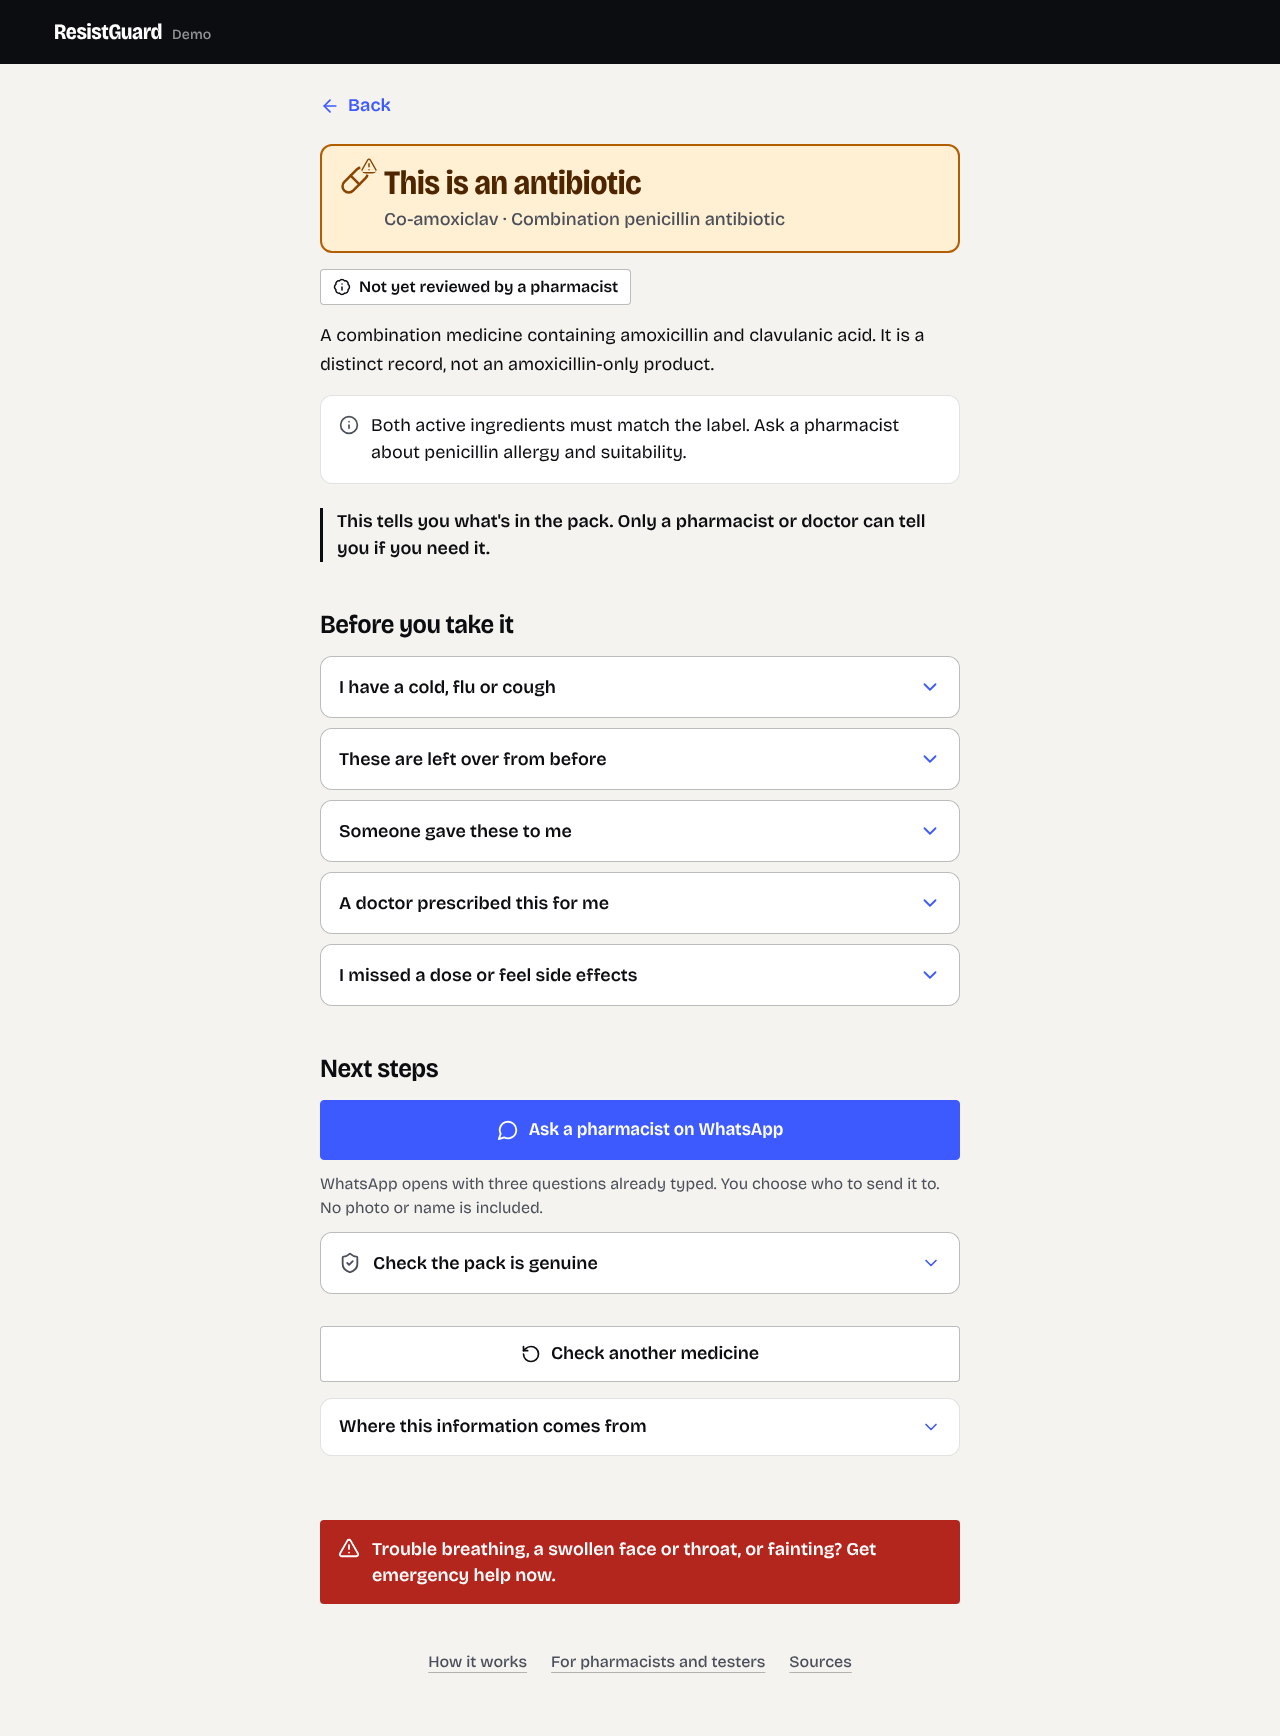
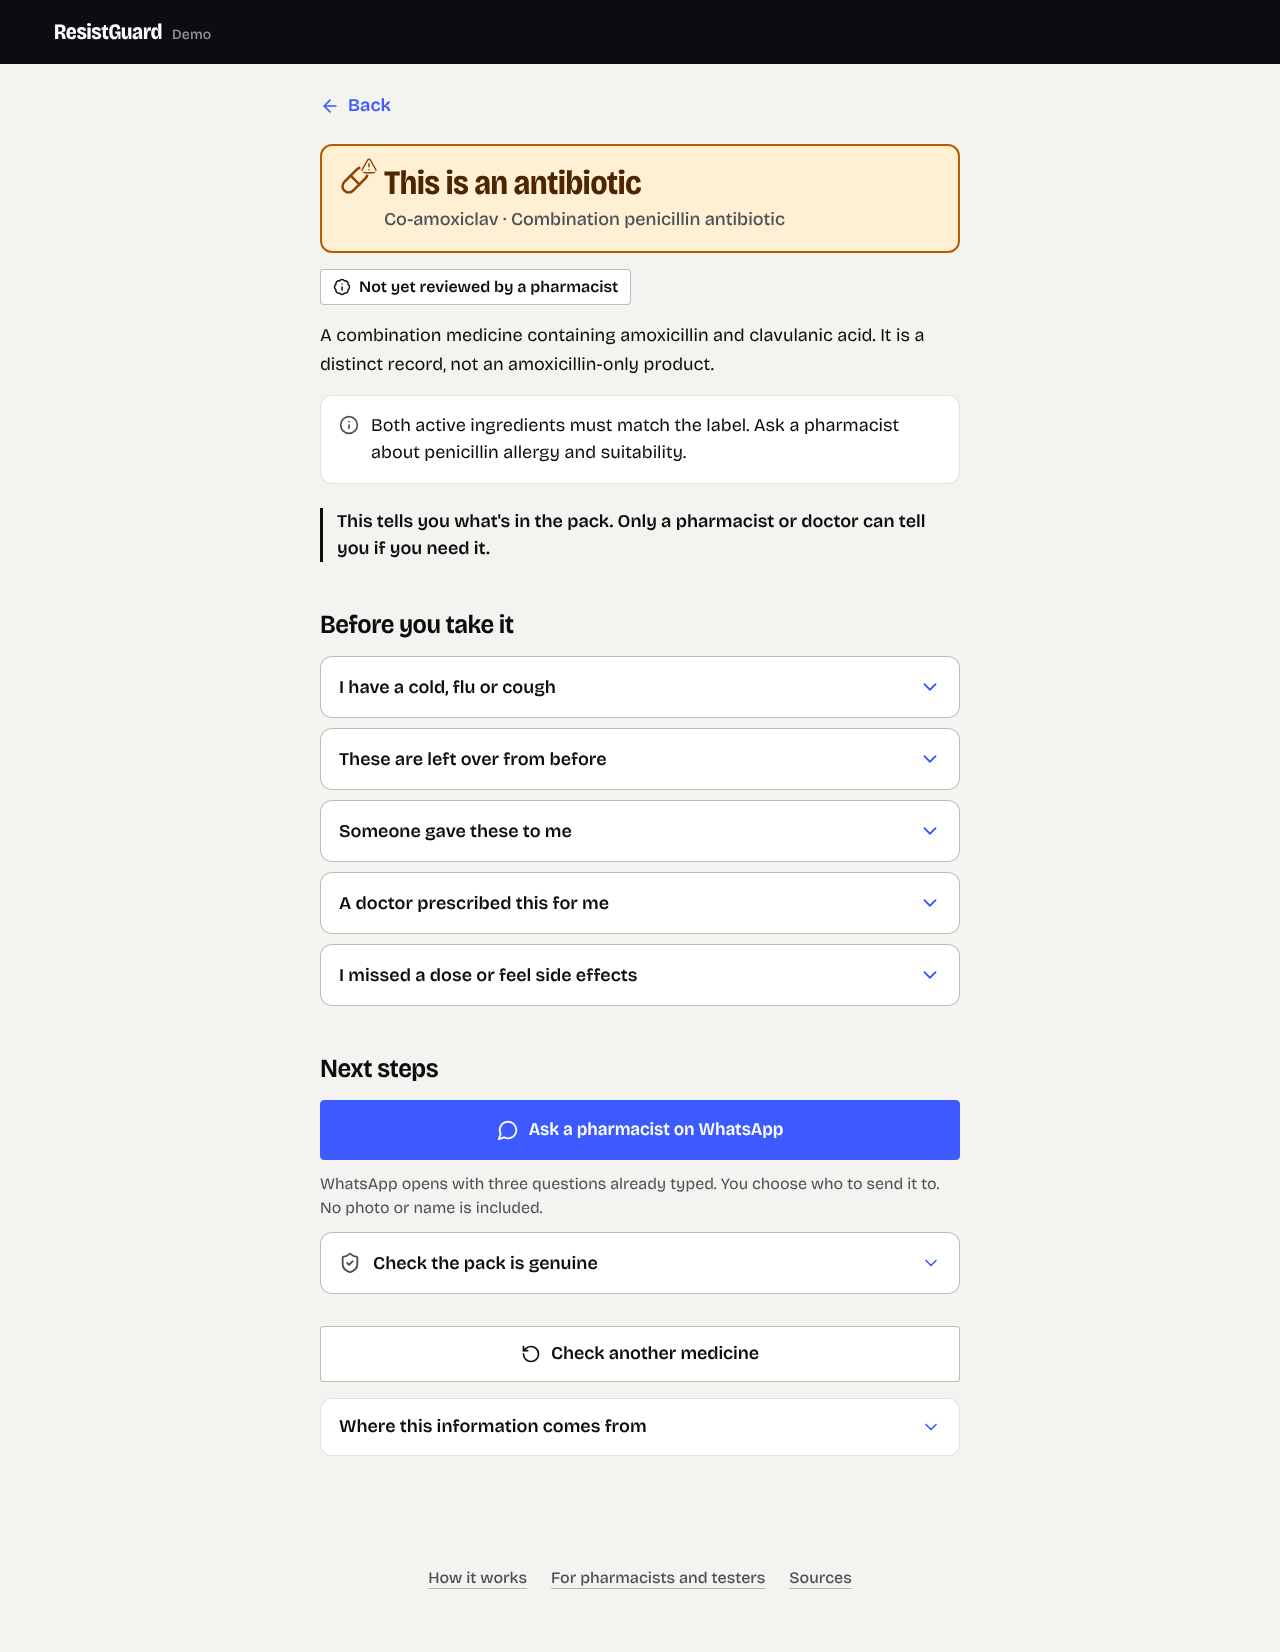
Remove the emergency notice from the checker
The product owner asked for the emergency strip to go. It is removed from
every tool screen, the hidden use-check view, the copy, the colour tokens
and the design docs. The pharmacist-reviewed medical text in lib/safety.ts
is unchanged. Screenshots retaken.

Claude-Session: https://claude.ai/code/session_01QXnJzsg3GfQ5Gs2Jt9t3nx

diff --git a/app/components/CheckApp.tsx b/app/components/CheckApp.tsx
@@ -1,6 +1,6 @@
 'use client';
 import {useState} from 'react';
-import {ArrowLeft,ScanLine,BookOpen,ChartNoAxesCombined,Info,TriangleAlert} from 'lucide-react';
+import {ArrowLeft,ScanLine,BookOpen,ChartNoAxesCombined,Info} from 'lucide-react';
 import dashboard from '@/data/dashboard.json';
 import {copy} from '@/lib/screen-copy';
 import UseCheck from './UseCheck';
@@ -13,7 +13,7 @@ import Wordmark from './Wordmark';
 import './check-app.css';
 // 'use', 'learn' and 'dashboard' are hidden: no control opens them, but the code stays.
 type View='flow'|'how'|'pilot'|'sources'|'use'|'learn'|'dashboard';
-// The checker at /check: night top bar, paper screens, the emergency strip in normal flow at the bottom of every screen.
+// The checker at /check: night top bar, paper screens, footer links in normal flow.
 export default function CheckApp({aiPaused,example}:{aiPaused:boolean;example:boolean}){
  const [view,setView]=useState<View>('flow');
  const [command,setCommand]=useState<{screen:'home'|'find';n:number}>({screen:'home',n:0});
@@ -26,7 +26,6 @@ export default function CheckApp({aiPaused,example}:{aiPaused:boolean;example:bo
   <div hidden={view!=='flow'}><MedicineCheck command={command} aiPaused={aiPaused} example={example}/></div>
   {view!=='flow'&&<div data-view data-motion="screen" className="tool-view"><button type="button" className="text-button page-back" data-motion="press" onClick={()=>toFlow('home')}><ArrowLeft size={20} aria-hidden="true"/>{copy.back}</button>
   {view==='how'?<HowItWorks onCatalogue={()=>toFlow('find')}/>:view==='pilot'?<Pilot/>:view==='sources'?<Sources/>:view==='use'?<UseCheck/>:view==='learn'?<Learning onSample={()=>toFlow('home')}/>:<section className="content-view"><div className="eyebrow">DEMO INSIGHTS</div><h1>Example dashboard</h1><p>{dashboard.label}. These fixed numbers never include your scans or interactions.</p><div className="stats">{[['240','Synthetic sessions'],['186','Catalogue matches'],['154','Learning checks']].map(([n,l],i)=><article key={l}><span className="stat-icon">{i===0?<ChartNoAxesCombined size={20}/>:i===1?<ScanLine size={20}/>:<BookOpen size={20}/>}</span><span>{l}</span><strong>{n}</strong><small>Illustrative only · synthetic data</small></article>)}</div><div className="dashboard-grid"><article><div className="eyebrow">A WEEK IN THE DEMO</div><h2>Synthetic learning activity</h2><div className="bars" role="img" aria-label="Synthetic daily sessions: Mon 28, Tue 35, Wed 30, Thu 42, Fri 31, Sat 39, Sun 35">{dashboard.weekly.map((n,i)=><div key={i}><span>{n}</span><div style={{height:n*3}}/><small>{['Mon','Tue','Wed','Thu','Fri','Sat','Sun'][i]}</small></div>)}</div></article><article><div className="eyebrow">ILLUSTRATIVE TOPICS</div><h2>What people might ask</h2>{dashboard.scenarios.map(s=><div className="topic" key={s.name}><div><span>{s.name}</span><b>{s.value}</b></div><div className="track"><span style={{width:`${s.value/240*100}%`}}/></div></div>)}</article></div><div className="small-note"><Info size={20}/><p>No tracking, analytics service, database or saved session history is implemented. This dashboard demonstrates a possible educational reporting view; it is not AMR surveillance or evidence of clinical impact.</p></div></section>}</div>}
-  <p className="tool-emergency" role="note"><TriangleAlert size={22} aria-hidden="true"/><span>{copy.emergency}</span></p>
   <footer className="page-footer"><nav aria-label="More information">{([['how',copy.footer.how],['pilot',copy.footer.pilot],['sources',copy.footer.sources]] as const).map(([id,label])=><button key={id} type="button" className="text-button page-footer-link" data-motion="press" aria-current={view===id?'page':undefined} onClick={()=>open(id)}>{label}</button>)}</nav></footer>
  </main>
  </>;

diff --git a/app/components/check-app.css b/app/components/check-app.css
@@ -1,13 +1,11 @@
-/* The checker shell: night top bar, paper screens, emergency strip and footer in normal flow. */
+/* The checker shell: night top bar, paper screens, footer in normal flow. */
 .tool-bar{display:flex;align-items:center;min-height:var(--bar);padding:0 var(--gutter);background:var(--night);color:var(--on-night)}
 .tool{padding:0 20px}
 .tool-view{max-width:760px;margin:0 auto}
 .tool-view:has(.pilot-view){max-width:1040px}
 .page-back{text-decoration:none;margin-top:var(--s3)}
 .page-back:hover{text-decoration:underline}
-.tool-emergency{display:flex;gap:var(--s3);align-items:flex-start;max-width:640px;margin:var(--s8) auto 0;padding:var(--s4) 18px;border-radius:var(--radius-control);background:var(--emergency);color:var(--on-emergency);font-size:var(--text-body);font-weight:600;line-height:1.45}
-.tool-emergency svg{flex-shrink:0;margin-top:1px}
-.page-footer{display:grid;justify-items:center;gap:var(--s2);max-width:640px;margin:0 auto;padding:var(--s6) 0 var(--s7);text-align:center}
+.page-footer{display:grid;justify-items:center;gap:var(--s2);max-width:640px;margin:var(--s8) auto 0;padding:var(--s6) 0 var(--s7);text-align:center}
 .page-footer nav{display:flex;flex-wrap:wrap;justify-content:center;gap:0 var(--s5)}
 .page-footer-link{font-size:var(--text-small);font-weight:500;color:var(--ink-2);text-decoration-color:var(--line-strong)}
 .page-footer-link[aria-current=page]{color:var(--ink);text-decoration-color:var(--ink)}

diff --git a/app/components/UseCheck.tsx b/app/components/UseCheck.tsx
@@ -6,7 +6,6 @@ import {
   conversationTopics,getPassage,retrieveUseEvidence,usePlans,useTopics,validateEvidenceOrder,
   type PassageId,type UsePlan,type UseTopic
 } from '@/lib/use-check';
-import {emergency} from '@/lib/safety';
 import './use-check.css';
 
 type QuestionTopic=keyof typeof conversationTopics;
@@ -170,7 +169,6 @@ export default function UseCheck(){
           </ul>
           {topics.includes('age')&&<p>{getPassage('children').text} <a href={getPassage('children').reference.url} target="_blank" rel="noreferrer">CDC guidance</a></p>}
           </div>
-          <p className="use-urgent">{emergency}</p>
           <button className="text-button" onClick={()=>selectTopic(topic)}><RotateCcw size={15}/> Reset this example</button>
         </>:<div className="use-empty"><BookOpen size={38}/><h2>Why do you want to use it?</h2><p>Choose a situation and a possible action. The explanation will show the relevant public guidance and the questions you can bring to a pharmacist.</p></div>}
       </section>

diff --git a/app/tokens.css b/app/tokens.css
@@ -22,12 +22,10 @@
  --signal-50:#E9ECFF;      /* informational note ground on paper */
  --signal-ink:#2A3BB8;     /* text on signal-50 */
  --on-signal:#FFFFFF;      /* label on a signal fill, 5.1:1 */
- --on-emergency:#FFFFFF;   /* text on the emergency strip, 6.5:1 */
 
  /* Meaning colours, unchanged from the reviewed answer screen */
  --amber-50:#FFF0D4;--amber-line:#B25E00;--amber-icon:#8A4500;--amber-ink:#4D2600;   /* antibiotic caution */
  --slate-50:#E8EEF5;--slate-line:#4F6B8A;--slate-icon:#34506F;--slate-ink:#1D3350;   /* not an antibiotic */
- --emergency:#B3261E;      /* emergency strip only */
 
  /* Type: Bricolage Grotesque for everything, Fraunces italic for one word per heading */
  --font-sans:var(--font-bricolage),'Bricolage Grotesque Fallback',sans-serif;

diff --git a/app/components/use-check.css b/app/components/use-check.css
@@ -35,7 +35,6 @@
 .use-next h3 {margin:0 0 .65rem}
 .use-next ul {list-style:disc;padding-left:1.2rem;font-size:.9rem;line-height:1.5}
 .use-next li+li {margin-top:.55rem}
-.use-urgent {font-size:.85rem;background:var(--amber-50);border-left:3px solid var(--amber-icon);padding:.85rem;margin:1rem 0}
 .resistance-lesson {background:var(--ink);color:var(--card);padding:clamp(1.3rem,4vw,3rem);margin-top:2.5rem}
 .resistance-lesson .eyebrow,.resistance-lesson p,.resistance-lesson a {color:var(--signal-50)}
 .lesson-stages {display:grid;grid-template-columns:repeat(3,minmax(0,1fr));gap:1rem;list-style:none;padding:0;margin:2rem 0 1.5rem}

diff --git a/lib/screen-copy.ts b/lib/screen-copy.ts
@@ -4,7 +4,6 @@ import {medicines} from '@/lib/safety';
 const lowerFirst=(name:string)=>name.charAt(0).toLowerCase()+name.slice(1);
 export const copy={
  back:'Back',
- emergency:'Trouble breathing, a swollen face or throat, or fainting? Get emergency help now.',
  home:{
   // Redesign v3: approved Tool Home heading and lead. The one emphasised word is titleEm.
   title:'What are you about to take?',

diff --git a/ART_DIRECTION.md b/ART_DIRECTION.md
@@ -4,7 +4,7 @@
 A dark room with one lamp on. You walk in holding a medicine pack and one question, and the room answers it. The landing page is the room (night). The checker is the sheet of paper the answer is written on (paper). Everything else is subtracted.
 
 ## 2. Emotional response
-Doubt, then clarity, then reassurance. The hero names the doubt in big, plain type. One blue word marks the turn. The page goes quiet after that. The checker should feel like a pharmacist's counter in daylight: white cards on warm paper and large text. A verdict should never feel like a warning siren unless it is the emergency strip.
+Doubt, then clarity, then reassurance. The hero names the doubt in big, plain type. One blue word marks the turn. The page goes quiet after that. The checker should feel like a pharmacist's counter in daylight: white cards on warm paper and large text. A verdict should never feel like a warning siren.
 
 ## 3. Night & Paper on each surface
 | | Night (landing, tool top bar, video) | Paper (tool) |
@@ -14,7 +14,7 @@ Doubt, then clarity, then reassurance. The hero names the doubt in big, plain ty
 | Signal `#3D5AFE` | Fill of the one primary button (white label, 5.1:1). Large emphasis word only (3.8:1, so 24px and up). Small signal text uses `#6E80FF` | Primary button, links (4.6:1). Notes on `signal-50 #E9ECFF` with `#2A3BB8` text |
 | Lines | `rgba(255,255,255,.12)` | `rgba(11,13,16,.12)` |
 
-Each colour has one meaning. Signal means "do this next". Amber (`#fff0d4` / `#b25e00` / `#4d2600`) means antibiotic caution. Slate (`#e8eef5` / `#4f6b8a` / `#1d3350`) means not an antibiotic. Red `#b3261e` is the emergency strip only. The palette has no green, lavender or old cobalt. There are no shadows or gradients, except the single hero glow.
+Each colour has one meaning. Signal means "do this next". Amber (`#fff0d4` / `#b25e00` / `#4d2600`) means antibiotic caution. Slate (`#e8eef5` / `#4f6b8a` / `#1d3350`) means not an antibiotic. The palette has no red, green, lavender or old cobalt. There are no shadows or gradients, except the single hero glow.
 
 Radius is 4px on every control (buttons, inputs, chips) and 12px on paper cards. Focus is a 2px ring offset by 4px: `#6E80FF` on night, `#3D5AFE` on paper. It is the same shape everywhere.
 

diff --git a/DESIGN.md b/DESIGN.md
@@ -2,7 +2,7 @@
 
 One product, one design language. The landing page (`/`) is night. The medicine checker (`/check`) is paper under a night top bar. Both are surfaces of the same product. The direction and its reasoning live in `ART_DIRECTION.md`; this file is the working reference. Every value below is defined once in `app/tokens.css`, and nothing else may define a colour, font or motion value.
 
-## Colour: one brand colour, three meaning colours
+## Colour: one brand colour, two meaning colours
 
 | Token | Value | Use |
 |---|---|---|
@@ -19,7 +19,6 @@ One product, one design language. The landing page (`/`) is night. The medicine 
 | `--signal-50` / `--signal-ink` | `#E9ECFF` / `#2A3BB8` | Information notes on paper (paused photo reading, "AI read this", timeouts) |
 | `--amber-*` | `#FFF0D4` `#B25E00` `#8A4500` `#4D2600` | **Antibiotic caution** only: verdict and chips |
 | `--slate-*` | `#E8EEF5` `#4F6B8A` `#34506F` `#1D3350` | **Not an antibiotic** only: calm information |
-| `--emergency` | `#B3261E` | The emergency strip, nothing else |
 
 Rules:
 - No green anywhere: "not an antibiotic" must never read as "safe to take".
@@ -61,7 +60,6 @@ Rules:
 - **Wordmark:** `app/components/Wordmark.tsx`. "ResistGuard" followed by "Demo" in small text. No monogram, no badge.
 - **Buttons:** `.primary` (signal fill), `.secondary` (white with a 1px border), `.text-button` (signal underline). The landing page uses `.landing-button` with a trailing arrow: one rectangle, one arrow.
 - **Notes:** `.note` (signal-50) for information; `.caution` (white card) for medicine cautions.
-- **Emergency strip:** rendered once by `CheckApp`, in normal flow at the bottom of every tool screen. It is never fixed or sticky.
 - **Hero media:** `app/components/HeroMedia.tsx`. The rules are in `lib/hero-media.ts`:
   - The video renders only when `NEXT_PUBLIC_HERO_VIDEO=1` and `public/media/hero.webm` or `hero.mp4` exists.
   - `hero-poster.jpg` is shown for reduced motion, Save-Data and 2G.

diff --git a/CLAUDE.md b/CLAUDE.md
@@ -20,7 +20,7 @@ Read PROJECT_MAP.md before you change the scan flow, the catalogue or any medica
 ## Design system (read before any UI change)
 - Read `DESIGN.md` (Night & Paper) and `ART_DIRECTION.md`. Every colour, font, space and motion value lives in `app/tokens.css`; never hard-code one in a component.
 - Landing page at `/` is night (`app/page.tsx`, `app/landing.css`, copy in `lib/landing-copy.ts`). The checker is at `/check` (`app/check/page.tsx` -> `app/components/CheckApp.tsx`), paper under a night top bar.
-- One brand colour, signal `#3D5AFE`, means "do this next". Amber = antibiotic caution, slate = not an antibiotic, red = emergency strip only. No green anywhere.
+- One brand colour, signal `#3D5AFE`, means "do this next". Amber = antibiotic caution, slate = not an antibiotic. No red and no green anywhere.
 - Bricolage Grotesque for everything; Fraunces italic only for one `<em>` per heading via `Emphasis.tsx`.
 - Radius 4px for controls, 12px for cards. Controls at least 52px tall. Body text 18px; nothing below 14px.
 - New CSS: one file per component, every class prefixed with the component name, values only from tokens.

diff --git a/PROJECT_MAP.md b/PROJECT_MAP.md
@@ -197,7 +197,6 @@ On the right-hand panel:
 4. **"Explain this simply"**: opens the **Ask ResistGuard** dialog with the explanation for the chosen scenario already running (see sections 7 and 8). It no longer expands inside the page.
 5. For antibiotics, a link to the **Antibiotic use** tab.
 6. "A useful next conversation" (what to bring to a pharmacist), source links, the date the source was checked, and "Pharmacist review pending".
-7. On every page: a fixed emergency notice (trouble breathing, throat swelling or collapse → seek emergency help).
 
 ---
 
